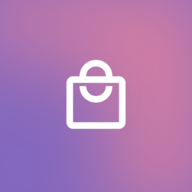
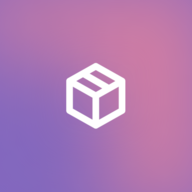
Rebranded Paquet

Changed region(s): [[0.3438, 0.3125, 0.6562, 0.6875]]

diff --git a/src/pages/_app.tsx b/src/pages/_app.tsx
@@ -17,7 +17,7 @@ const App = ({ Component, pageProps }: AppProps) => {
 			<Head>
 				<meta charSet="utf-8" />
 				<meta name="viewport" content="width=device-width, initial-scale=1, user-scalable=0" />
-				<meta name="description" content="Aducem comunitatea mai aproape" />
+				<meta name="description" content="The web app store" />
 				<link rel="apple-touch-icon" href="/icon.png" />
 				<link rel="apple-touch-icon" sizes="180x180" href="/apple-touch-icon.png"/>
 				<link rel="icon" type="image/png" sizes="32x32" href="/favicon-32x32.png"/>
@@ -36,7 +36,7 @@ const App = ({ Component, pageProps }: AppProps) => {
 					}
 				/>
 
-				<title>Paquet Hub</title>
+				<title>Paquet</title>
 			</Head>
 			<ThemeProvider theme={prefersDarkMode ? darkTheme : lightTheme}>
 				<CssBaseline enableColorScheme/>
